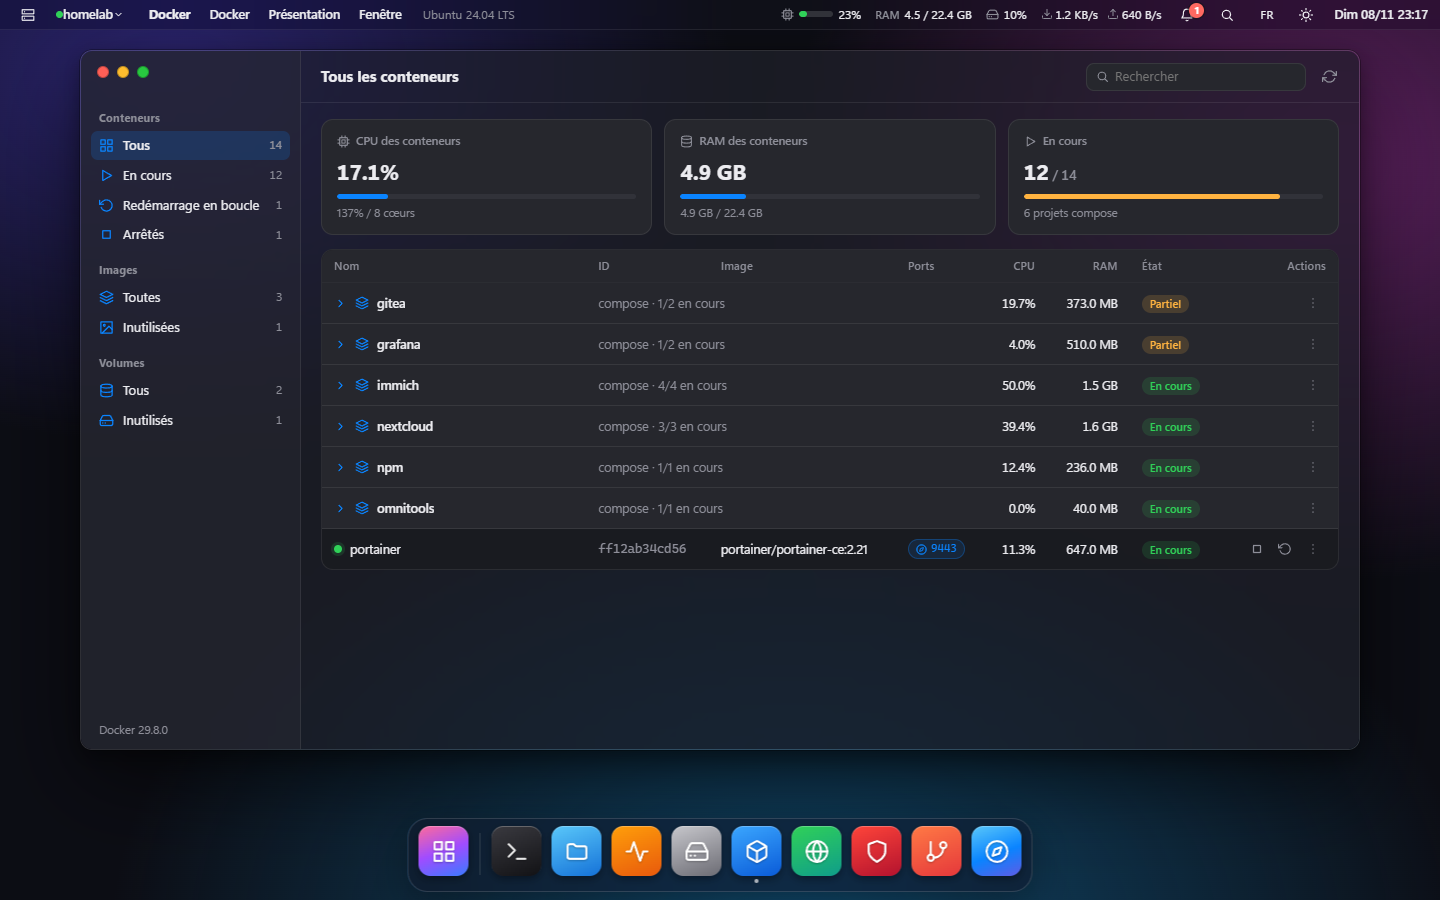
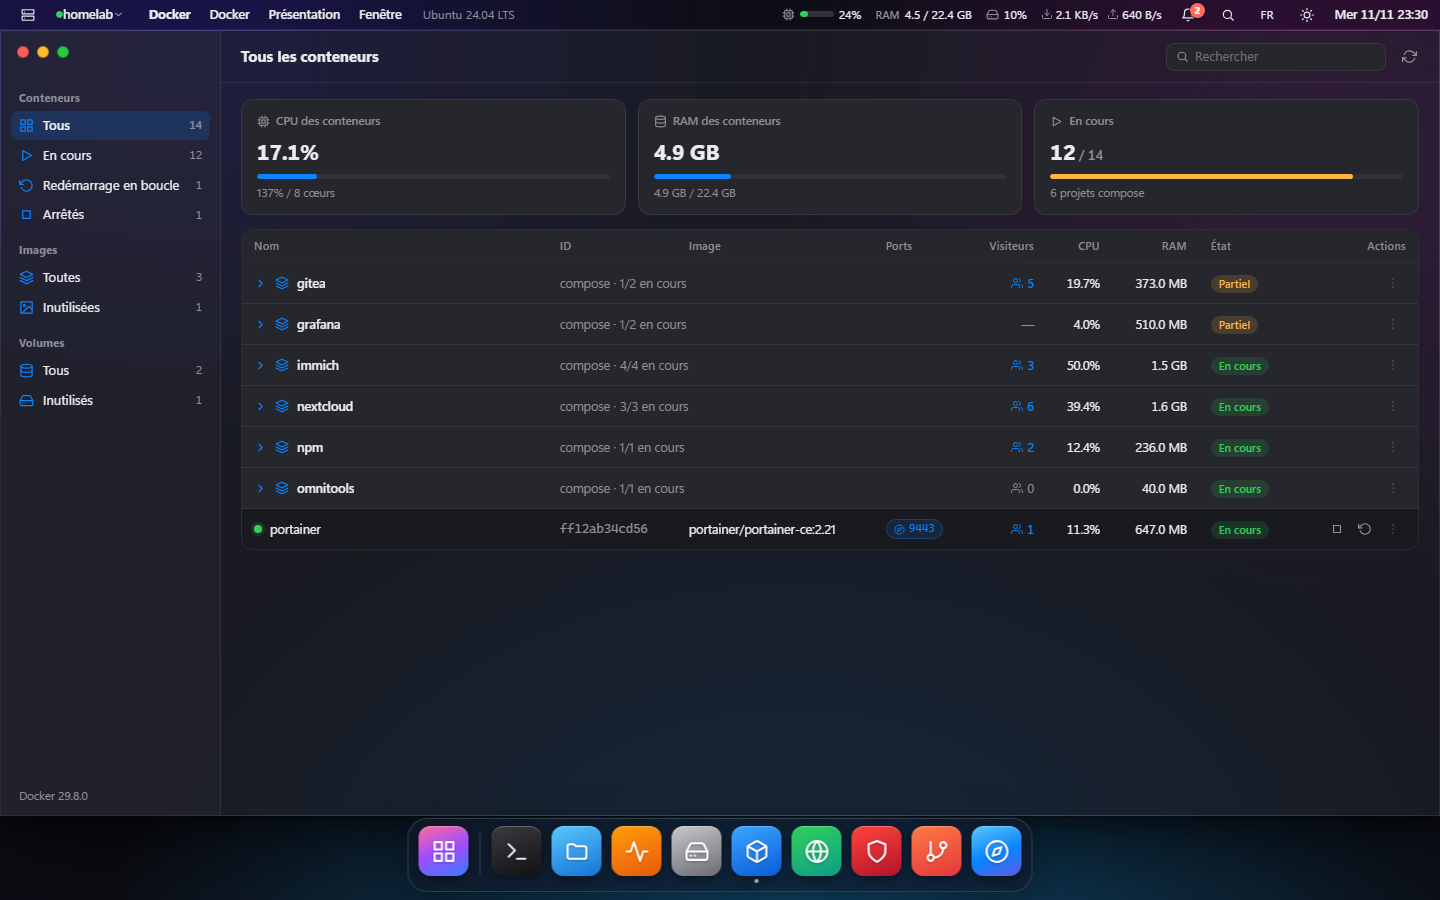
README: refresh screenshots, add Homelab and Databases

diff --git a/README.fr.md b/README.fr.md
@@ -12,11 +12,17 @@ Rust — backend [Tauri v2](https://tauri.app) + [russh](https://github.com/Euge
 
 ![Le bureau sshOs : Fichiers (SFTP) et Moniteur ouverts, Dock en bas](docs/screenshots/desktop.png)
 
-| Lanceur d'applications (F4) | Docker (thème sombre) |
-|---|---|
-| ![Lanceur : toutes les apps par catégorie, + / ✓ pour le Dock](docs/screenshots/launcher.png) | ![Docker : conteneurs regroupés par projet compose](docs/screenshots/docker.png) |
+**Homelab** : le serveur dessiné comme un schéma, avec le matériel, les disques, les réseaux Docker, les ports ouverts, les routes du proxy et les services par catégorie.
 
-![Sécurité : tentatives SSH, IP les plus actives et utilisateurs visés](docs/screenshots/security.png)
+![Homelab : le serveur en schéma, avec matériel, disques, réseaux, ports et services par catégorie](docs/screenshots/homelab.png)
+
+| Lanceur d'applications (F4) | Docker, avec les visiteurs actuels par service |
+|---|---|
+| ![Lanceur : toutes les apps par catégorie, + / ✓ pour le Dock](docs/screenshots/launcher.png) | ![Docker : conteneurs regroupés par projet compose, avec la colonne Visiteurs](docs/screenshots/docker.png) |
+
+| Explorateur de bases de données (PostgreSQL, MySQL, MongoDB, Redis) | Sécurité |
+|---|---|
+| ![Bases de données : tables et lignes d'un conteneur PostgreSQL, avec modification et insertion](docs/screenshots/databases.png) | ![Sécurité : tentatives SSH, IP les plus actives et utilisateurs visés](docs/screenshots/security.png) |
 
 <sub>Captures prises avec des données fictives (aucun vrai serveur).</sub>
 

diff --git a/README.md b/README.md
@@ -12,11 +12,17 @@ app — [Tauri v2](https://tauri.app) + [russh](https://github.com/Eugeny/russh)
 
 ![The sshOs desktop: Files (SFTP) and Monitor open, Dock at the bottom](docs/screenshots/desktop.png)
 
-| App launcher (F4) | Docker (dark theme) |
-|---|---|
-| ![Launcher: every app by category, + / ✓ for the Dock](docs/screenshots/launcher.png) | ![Docker: containers grouped by compose project](docs/screenshots/docker.png) |
+**Homelab**: the server drawn as a map, with hardware, disks, Docker networks, open ports, proxy routes and services by category.
 
-![Security: SSH attempts, most active IPs and targeted users](docs/screenshots/security.png)
+![Homelab: the server as a map, with hardware, disks, networks, ports and services by category](docs/screenshots/homelab.png)
+
+| App launcher (F4) | Docker, with current visitors per service |
+|---|---|
+| ![Launcher: every app by category, + / ✓ for the Dock](docs/screenshots/launcher.png) | ![Docker: containers grouped by compose project, with a Visitors column](docs/screenshots/docker.png) |
+
+| Databases explorer (PostgreSQL, MySQL, MongoDB, Redis) | Security |
+|---|---|
+| ![Databases: tables and rows of a PostgreSQL container, with edit and insert](docs/screenshots/databases.png) | ![Security: SSH attempts, most active IPs and targeted users](docs/screenshots/security.png) |
 
 <sub>Screenshots taken with mock data (no real server).</sub>
 
